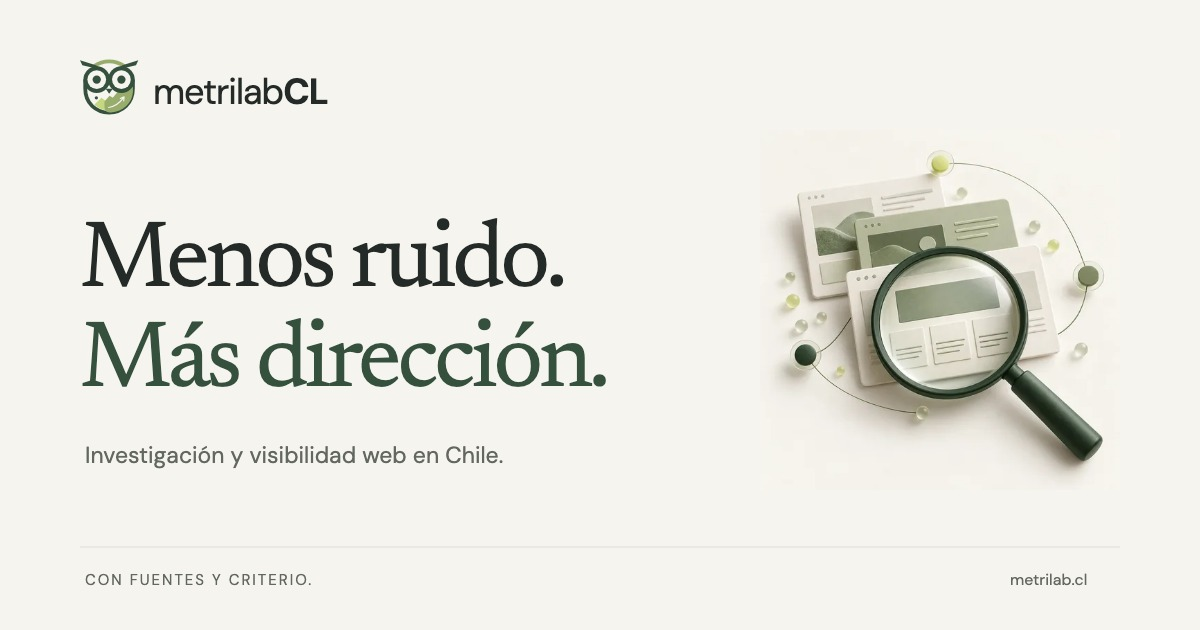
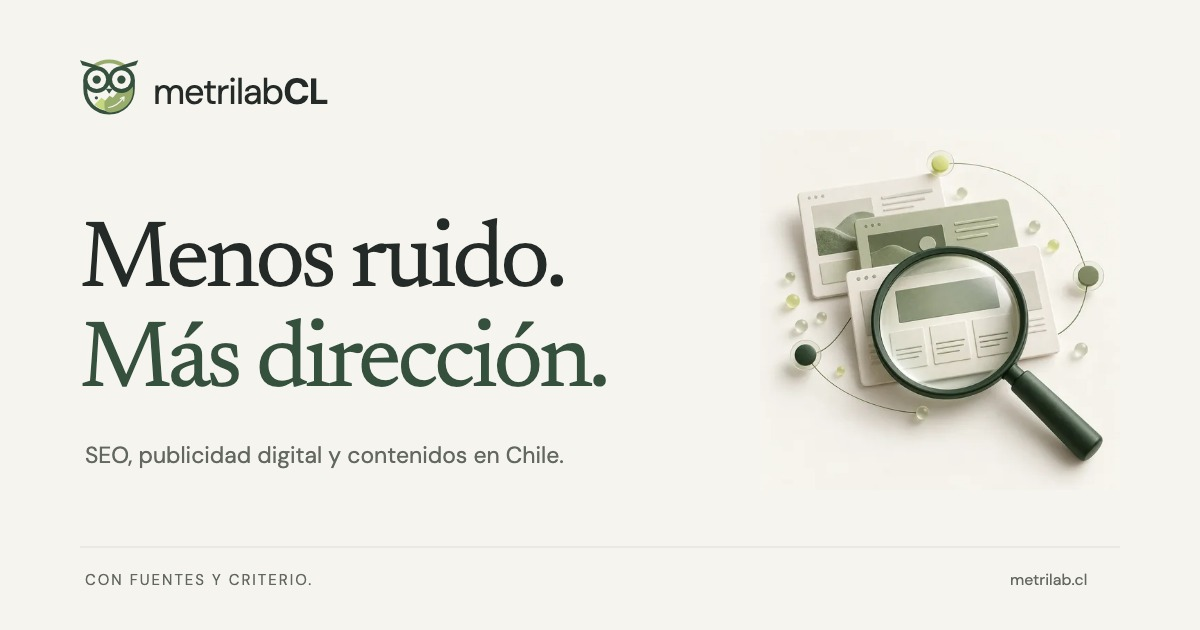
Ampliar oferta con Google Ads, Meta Ads y contenidos optimizados

Changed region(s): [[0.0617, 0.6937, 0.4625, 0.754]]

diff --git a/src/data/pages.ts b/src/data/pages.ts
@@ -1,18 +1,19 @@
 import { privacyPage } from './privacy';
 import { site } from './site';
+import { marketingPages } from './marketing';
 
 export interface Section { id: string; title: string; html: string; }
 export interface Page { slug: string; title: string; seoTitle: string; description: string; label: string; breadcrumb: string; lead: string; type?: string; service?: boolean; contact?: boolean; sections: Section[]; }
 
 export const pages: Page[] = [
   {
-    slug: 'servicios', title: 'Dos caminos. Una decisión con fundamento.', seoTitle: 'Servicios de diagnóstico y ejecución SEO | MetrilabCL', label: 'SERVICIOS / DIAGNÓSTICO Y EJECUCIÓN', breadcrumb: 'Servicios',
-    description: 'Compara diagnóstico y ejecución SEO: alcance, entregables, accesos y quién aplica cada cambio. Propuestas a medida para tu sitio.',
-    lead: 'Puedes necesitar claridad, un equipo que implemente o ambas cosas. Definimos contigo un alcance que responda a tu situación.',
+    slug: 'servicios', title: 'Dos caminos. Una decisión con fundamento.', seoTitle: 'Servicios de marketing digital: SEO, Ads y contenidos | MetrilabCL', label: 'SERVICIOS / SEO, ADS Y CONTENIDOS', breadcrumb: 'Servicios',
+    description: 'SEO, Google Ads, Meta Ads, creación de anuncios, palabras clave y textos optimizados. Compara diagnóstico, ejecución y gestión de campañas.',
+    lead: 'Puedes necesitar un diagnóstico, contenidos, campañas o un equipo que coordine todo. Definimos contigo el alcance para tu web y tu publicidad digital.',
     sections: [
-      { id: 'comparar', title: 'Diagnóstico o ejecución: ¿qué cambia?', html: `<p>El diagnóstico investiga el estado de tu sitio y convierte la evidencia en recomendaciones priorizadas. La ejecución aplica los cambios acordados y los verifica. Puedes contratar un diagnóstico para tu equipo, o pedir que MetrilabCL implemente el plan con los accesos necesarios.</p><div class="comparison-wrap" role="region" aria-label="Comparación de servicios" tabindex="0"><table class="comparison"><thead><tr><th scope="col">Lo que necesitas saber</th><th scope="col">Diagnóstico</th><th scope="col">Ejecución</th></tr></thead><tbody><tr><td>Objetivo</td><td>Entender qué mejorar y por qué.</td><td>Aplicar y verificar las mejoras.</td></tr><tr><td>Qué recibes</td><td>Hallazgos, fuentes y un plan priorizado.</td><td>Cambios implementados y su registro de verificación.</td></tr><tr><td>Quién aplica</td><td>Tu equipo o el proveedor que elijas.</td><td>MetrilabCL, en el alcance acordado.</td></tr><tr><td>Accesos</td><td>Se puede partir de información pública. Las cuentas amplían la evidencia.</td><td>CMS, código, hosting o herramientas, según la tarea.</td></tr><tr><td>Límites</td><td>No estima tráfico ni conversiones sin acceso.</td><td>No garantiza posiciones, ventas ni inclusión en IA.</td></tr></tbody></table></div><p><a href="/diagnostico/">Conocer el diagnóstico</a> · <a href="/seo/">Conocer la ejecución</a></p>` },
-      { id: 'alcance', title: 'Un alcance construido alrededor de tu sitio.', html: `<div class="detail-grid"><div class="detail-card"><h3>Investigación</h3><p>Demanda, intención de búsqueda y oferta competidora. El contexto que ayuda a decidir qué merece una página.</p></div><div class="detail-card"><h3>SEO y contenido</h3><p>Rastreo, indexación, arquitectura, enlazado y respuestas útiles para las personas.</p></div><div class="detail-card"><h3>Entidad e IA</h3><p>Identidad consistente, información atribuible y datos estructurados que describan lo que existe.</p></div><div class="detail-card"><h3>Experiencia web</h3><p>Rendimiento, accesibilidad y barreras que dificultan entender o utilizar tu sitio.</p></div></div>` },
-      { id: 'propuesta', title: '¿Cuánto cobra una agencia SEO?', html: `<p>En MetrilabCL cotizamos por propuesta. El costo depende del tamaño y estado del sitio, de la profundidad de la investigación, de los accesos disponibles y de quién implementará los cambios. Primero acordamos el problema y los entregables; después definimos el presupuesto. No publicamos rangos sin conocer ese alcance.</p><p>Para empezar, envíanos la dirección de tu sitio, tu objetivo y si cuentas con un equipo que pueda aplicar cambios. Si todavía no sabes qué camino necesitas, también podemos partir desde ahí.</p>` },
+      { id: 'comparar', title: 'Diagnóstico o ejecución: ¿qué cambia?', html: `<p>El diagnóstico investiga tu sitio y, con los accesos acordados, tus campañas, y convierte la evidencia en recomendaciones priorizadas. La ejecución implementa SEO, contenidos o publicidad digital, según la propuesta. Puedes contratar un diagnóstico para tu equipo, o pedir que MetrilabCL implemente el plan con los accesos necesarios.</p><div class="comparison-wrap" role="region" aria-label="Comparación de servicios" tabindex="0"><table class="comparison"><thead><tr><th scope="col">Lo que necesitas saber</th><th scope="col">Diagnóstico</th><th scope="col">Ejecución</th></tr></thead><tbody><tr><td>Objetivo</td><td>Entender qué mejorar y por qué.</td><td>Aplicar y verificar las mejoras.</td></tr><tr><td>Qué recibes</td><td>Hallazgos, fuentes y un plan priorizado.</td><td>Cambios implementados y su registro de verificación.</td></tr><tr><td>Quién aplica</td><td>Tu equipo o el proveedor que elijas.</td><td>MetrilabCL, en el alcance acordado.</td></tr><tr><td>Accesos</td><td>Se puede partir de información pública. Las cuentas amplían la evidencia.</td><td>CMS, código, hosting o cuentas publicitarias, según la tarea.</td></tr><tr><td>Límites</td><td>No estima tráfico ni conversiones sin acceso.</td><td>No garantiza posiciones, ventas ni inclusión en IA.</td></tr></tbody></table></div><p><a href="/diagnostico/">Conocer el diagnóstico</a> · <a href="/seo/">Ejecución SEO</a> · <a href="/publicidad-digital/">Gestión de campañas</a></p>` },
+      { id: 'alcance', title: 'Un alcance construido alrededor de tu negocio.', html: `<div class="detail-grid"><div class="detail-card"><h3>Investigación</h3><p>Demanda, intención de búsqueda y oferta competidora. Palabras clave y contexto para definir páginas, contenidos y campañas.</p></div><div class="detail-card"><h3>SEO técnico</h3><p>Rastreo, indexación, arquitectura y enlazado para una web bien resuelta. <a href="/seo/">Conocer ejecución SEO</a>.</p></div><div class="detail-card"><h3>Google Ads y Meta Ads</h3><p>Estrategia, configuración, gestión y optimización de campañas, con seguimiento de los resultados registrados. <a href="/publicidad-digital/">Conocer publicidad digital</a>.</p></div><div class="detail-card"><h3>Anuncios y textos</h3><p>Creación de anuncios, piezas visuales, títulos, descripciones y textos optimizados para páginas, landings y campañas. <a href="/contenidos/">Conocer contenidos y copywriting</a>.</p></div><div class="detail-card"><h3>Entidad e IA</h3><p>Identidad consistente, información atribuible y datos estructurados que describan lo que existe.</p></div><div class="detail-card"><h3>Experiencia web</h3><p>Rendimiento, accesibilidad y barreras que dificultan entender o utilizar tu sitio.</p></div></div>` },
+      { id: 'propuesta', title: 'Una propuesta que distingue trabajo e inversión.', html: `<p>En MetrilabCL cotizamos por propuesta. El costo depende del sitio, las plataformas, la investigación, el volumen de textos y anuncios, los accesos y el seguimiento acordado. La inversión publicitaria en Google o Meta se define aparte de los honorarios de gestión. Primero acordamos el problema y los entregables; después definimos el presupuesto. No publicamos rangos sin conocer ese alcance.</p><p>Para empezar, envíanos la dirección de tu sitio, tu objetivo y si cuentas con un equipo que pueda aplicar cambios. Si todavía no sabes qué camino necesitas, también podemos partir desde ahí.</p>` },
     ],
   },
   {
@@ -22,6 +23,7 @@ export const pages: Page[] = [
     sections: [
       { id: 'que-es', title: '¿Qué es una auditoría web?', html: `<p>Una auditoría web revisa cómo funciona un sitio, qué información ofrece y qué barreras dificultan encontrarlo o utilizarlo. Nuestro diagnóstico combina revisión técnica y criterio humano: contrasta herramientas, contenido y contexto de búsqueda para entregar recomendaciones que indiquen qué cambiar, quién puede hacerlo y cómo verificarlo.</p>` },
       { id: 'alcance', title: 'Qué revisamos.', html: `<div class="detail-grid"><div class="detail-card"><h3>SEO técnico</h3><p>Rastreo, indexación, canonicals, estado HTTP, sitemap y estructura de enlaces.</p></div><div class="detail-card"><h3>Contenido y demanda</h3><p>Intención de búsqueda, cobertura, utilidad, duplicaciones y páginas que compiten entre sí.</p></div><div class="detail-card"><h3>Identidad y respuestas</h3><p>Entidad, datos estructurados, atribución y claridad de la información para buscadores y sistemas de IA.</p></div><div class="detail-card"><h3>Experiencia</h3><p>Rendimiento, accesibilidad, navegación y fricción para comprender tu oferta o contactarte.</p></div></div>` },
+      { id: 'campanas', title: 'Si ya tienes campañas, también podemos revisarlas.', html: `<p>Con el acceso acordado a Google Ads o Meta Ads, revisamos la estructura, los términos o audiencias, los anuncios, las páginas de destino y la medición disponible. Identificamos qué conviene corregir, qué mensajes probar y qué datos faltan para decidir.</p><p>Esta revisión se incluye cuando forma parte de la propuesta. Puedes llevar el plan a tu equipo o contratar la <a href="/publicidad-digital/">gestión de campañas</a> con MetrilabCL.</p>` },
       { id: 'entregable', title: 'Lo que recibes no termina en una lista de errores.', html: `<ul><li><strong>Resumen para decidir:</strong> el problema, la evidencia y lo que merece atención primero.</li><li><strong>Hallazgos trazables:</strong> fuente, fecha, condiciones y límites de cada observación.</li><li><strong>Plan priorizado:</strong> acciones ordenadas por impacto esperado, esfuerzo y dependencias, sin convertir estimaciones en resultados.</li><li><strong>Responsables y verificación:</strong> quién puede aplicar cada cambio y cómo comprobarlo.</li></ul><div class="sample-report"><p class="eyebrow">EJEMPLO ILUSTRATIVO · NO ES UNA AUDITORÍA REAL</p><h3>Una página importante no aparece en el sitemap.</h3><dl><dt>EVIDENCIA</dt><dd>En un escenario ficticio, la URL existe y responde, pero no está incluida en el sitemap consultado.</dd><dt>RECOMENDACIÓN</dt><dd>Verificar que la página sea canónica e indexable antes de agregarla al sitemap.</dd><dt>QUIÉN LO APLICA</dt><dd>El equipo que administra la generación del sitio.</dd><dt>CÓMO SE VERIFICA</dt><dd>Reconstruir el sitio, leer el sitemap y comprobar la URL. La inclusión no garantiza indexación.</dd><dt>LÍMITE</dt><dd>Sin Search Console no conocemos el estado de indexación observado por Google.</dd></dl></div><a class="download-link" href="/muestra-diagnostico.md" download>Descargar estructura de muestra <span aria-hidden="true">↓</span></a><p class="source-link">La muestra explica el formato. No presenta datos de clientes ni resultados medidos.</p>` },
       { id: 'limites', title: 'Qué no es este diagnóstico.', html: `<p>No es la exportación de una herramienta automática ni una promesa de posiciones. Tampoco asignamos cifras de tráfico, ventas o conversiones a un sitio sin acceso a sus cuentas. Cuando un dato requiere acceso, lo identificamos como <strong>«no disponible sin acceso»</strong>.</p><p>La revisión pública permite avanzar. Las cuentas de analítica y Search Console, si decides compartirlas, permiten ampliar y contrastar la investigación.</p>` },
       { id: 'costo', title: '¿Cuánto cuesta una auditoría SEO?', html: `<p>El costo depende de cuántas páginas y plantillas tiene el sitio, de su complejidad técnica, de los mercados que hay que investigar y de la evidencia disponible. La propuesta define las áreas que revisaremos, los entregables y las exclusiones. Así puedes comparar alcance y criterio antes de contratar.</p>` },
@@ -32,7 +34,7 @@ export const pages: Page[] = [
     description: 'Implementamos mejoras técnicas, contenidos, datos estructurados y enlaces internos. SEO en Chile con accesos acordados y verificación de cada cambio.',
     lead: 'Aplicamos las mejoras que tu sitio necesita y dejamos un registro de lo que cambió. El trabajo se puede revisar; las promesas de posiciones, no.',
     sections: [
-      { id: 'tareas', title: '¿Qué hace una agencia SEO?', html: `<p>Una agencia SEO investiga cómo busca tu público y mejora las condiciones técnicas y el contenido de tu sitio para que los buscadores puedan encontrarlo, comprenderlo y relacionarlo con esas búsquedas. En ejecución, aplica cambios acordados, documenta su alcance y los verifica. No controla las posiciones que decide un buscador.</p><div class="detail-grid"><div class="detail-card"><h3>Corregir la base técnica</h3><p>Problemas de rastreo, indexación, redirecciones, canonicals y plantillas.</p></div><div class="detail-card"><h3>Ordenar el contenido</h3><p>Arquitectura, encabezados, respuestas útiles y páginas con una función clara.</p></div><div class="detail-card"><h3>Describir la entidad</h3><p>Datos consistentes y marcado que refleje información visible y real.</p></div><div class="detail-card"><h3>Conectar las páginas</h3><p>Enlazado interno que ayude a recorrer la oferta y comprender sus relaciones.</p></div></div>` },
+      { id: 'tareas', title: '¿Qué hace una agencia SEO?', html: `<p>Una agencia SEO investiga cómo busca tu público y mejora las condiciones técnicas y el contenido de tu sitio para que los buscadores puedan encontrarlo, comprenderlo y relacionarlo con esas búsquedas. En ejecución, aplica cambios acordados, documenta su alcance y los verifica. No controla las posiciones que decide un buscador.</p><div class="detail-grid"><div class="detail-card"><h3>Corregir la base técnica</h3><p>Problemas de rastreo, indexación, redirecciones, canonicals y plantillas.</p></div><div class="detail-card"><h3>Optimizar los textos</h3><p>Investigación de palabras clave, títulos SEO, meta descripciones, encabezados y textos para páginas de servicio y landings. <a href="/contenidos/">Conoce los entregables de contenidos</a>.</p></div><div class="detail-card"><h3>Describir la entidad</h3><p>Datos consistentes y marcado que refleje información visible y real.</p></div><div class="detail-card"><h3>Conectar las páginas</h3><p>Enlazado interno que ayude a recorrer la oferta y comprender sus relaciones.</p></div></div>` },
       { id: 'accesos', title: 'Qué necesitamos para trabajar.', html: `<p>Los accesos dependen del cambio: CMS para contenido, repositorio para código, hosting para configuración o Search Console para contrastar indexación. Pedimos lo que exige el alcance acordado y definimos contigo qué puede publicar cada responsable.</p><p>Si tu equipo prefiere implementar, el <a href="/diagnostico/">diagnóstico</a> deja las instrucciones y los criterios de verificación.</p>` },
       { id: 'verificar', title: 'Antes, cambio, después.', html: `<ol><li><strong>Registrar el estado inicial.</strong> Guardar la evidencia que justifica el cambio.</li><li><strong>Aplicar el alcance acordado.</strong> Documentar las páginas o configuraciones afectadas.</li><li><strong>Repetir la comprobación.</strong> Usar las mismas herramientas y condiciones cuando sea posible.</li><li><strong>Explicar la diferencia.</strong> Separar una corrección técnica de un eventual efecto en tráfico o negocio.</li></ol><div class="note"><p>Una página que pasa a ser indexable es una mejora verificable. Que aumenten sus visitas exige otra medición y suficiente tiempo de observación. No son la misma afirmación.</p></div>` },
       { id: 'limites', title: 'Lo que ninguna agencia puede controlar.', html: `<p>No comprometemos una posición, un plazo de crecimiento ni una cita en sistemas de IA. Las decisiones de Google y de otros sistemas dependen de factores que no administramos. Nuestra responsabilidad es el trabajo acordado, su calidad y la claridad de la evidencia.</p><p>La propuesta distingue implementación y seguimiento. Si necesitas ambos, definimos qué mediremos y con qué accesos.</p>` },
@@ -54,9 +56,9 @@ export const pages: Page[] = [
     description: 'Investigamos palabras clave, intención de búsqueda y competencia con fuentes, país, idioma, fechas y límites. Decisiones de contenido con contexto.',
     lead: 'Qué busca tu público, qué encuentra hoy y dónde tu sitio puede responder mejor. Una investigación para decidir, no para llenar una planilla de palabras clave.',
     sections: [
-      { id: 'demanda', title: '¿Cómo se investigan las palabras clave?', html: `<p>Partimos del negocio y de las preguntas de su comprador. Organizamos términos por intención, contrastamos estimaciones de demanda con resultados de búsqueda y declaramos país, idioma y fecha. Después definimos qué página debe responder cada necesidad. Un volumen estimado orienta la investigación; no es una previsión de visitas o ventas.</p>` },
+      { id: 'demanda', title: '¿Cómo se investigan las palabras clave?', html: `<p>Partimos del negocio y de las preguntas de su comprador. Organizamos términos por intención, contrastamos estimaciones de demanda con resultados de búsqueda y declaramos país, idioma y fecha. Después definimos qué página, contenido o anuncio debe responder cada necesidad. Para campañas de Google Ads, organizamos también los términos y las exclusiones según su relación con la oferta. Un volumen estimado orienta la investigación; no es una previsión de visitas o ventas.</p>` },
       { id: 'competencia', title: '¿Cómo se analiza a la competencia?', html: `<p>Definimos una muestra de sitios y las preguntas que queremos responder. Revisamos oferta, estructura, mensaje, entregables y evidencias visibles, con criterios comunes. La comparación describe las páginas observadas en una fecha concreta. No permite afirmar quién vende más, cuánto tráfico tiene o qué hace todo el mercado.</p><div class="note"><p><strong>Una oportunidad es una hipótesis.</strong> Si una oferta no aparece en la muestra revisada, investigamos su potencial. No afirmamos que nadie la ofrece.</p></div>` },
-      { id: 'entrega', title: 'Del contexto a un mapa útil.', html: `<ul><li>Grupos de preguntas y términos con su intención.</li><li>Fuentes y estimaciones de demanda, con sus límites.</li><li>Lectura de resultados y competencia con criterios declarados.</li><li>Mapa de páginas: una función principal para cada URL.</li><li>Prioridades de contenido y preguntas que aún necesitan evidencia.</li></ul><p>El alcance puede formar parte de un <a href="/diagnostico/">diagnóstico</a> o alimentar una <a href="/seo/">etapa de ejecución</a>.</p>` },
+      { id: 'entrega', title: 'Del contexto a un mapa útil.', html: `<ul><li>Grupos de palabras clave y preguntas con su intención de búsqueda.</li><li>Fuentes y estimaciones de demanda, con sus límites.</li><li>Lectura de resultados y competencia con criterios declarados.</li><li>Mapa de páginas y temas: una función principal para cada URL y prioridades para títulos, descripciones y textos.</li><li>Prioridades de contenido y preguntas que aún necesitan evidencia.</li></ul><p>La investigación puede alimentar un <a href="/diagnostico/">diagnóstico</a>, la <a href="/seo/">ejecución SEO</a>, la <a href="/contenidos/">redacción de contenidos</a> o las <a href="/publicidad-digital/">campañas de Google Ads</a>.</p>` },
       { id: 'limites', title: '«Sin dato» no significa «sin demanda».', html: `<p>Las herramientas tienen cobertura y metodologías diferentes. Un término sin dato puede necesitar otra fuente o una investigación cualitativa. Tampoco sumamos sin criterio términos que representan búsquedas solapadas. Las conclusiones conservan el alcance de las mediciones que las sostienen.</p><p>No estimamos el tráfico ni las conversiones de un competidor a partir de su apariencia. Si un dato no está disponible, lo decimos.</p>` },
     ],
   },
@@ -73,16 +75,17 @@ export const pages: Page[] = [
     ],
   },
   {
-    slug: 'nosotros', title: 'Un estudio para tomar mejores decisiones web.', seoTitle: 'MetrilabCL: investigación y visibilidad web en Chile', label: 'EL ESTUDIO / METRILABCL', breadcrumb: 'El estudio', type: 'AboutPage',
-    description: 'MetrilabCL es una agencia de investigación y visibilidad web para negocios en Chile. Conoce nuestro enfoque, especialidades y forma de trabajar.',
-    lead: 'MetrilabCL es una agencia de investigación y visibilidad web orientada a negocios en Chile. Investigamos, recomendamos y, si el proyecto lo requiere, implementamos.',
+    slug: 'nosotros', title: 'Una agencia para conectar estrategia y ejecución.', seoTitle: 'MetrilabCL: agencia de marketing digital en Chile', label: 'EL ESTUDIO / METRILABCL', breadcrumb: 'El estudio', type: 'AboutPage',
+    description: 'MetrilabCL combina SEO, publicidad en Google Ads y Meta Ads, investigación y contenidos para negocios en Chile. Conoce nuestro enfoque y forma de trabajar.',
+    lead: 'MetrilabCL es una agencia de marketing digital orientada a negocios en Chile. Conectamos investigación, SEO, Google Ads, Meta Ads y contenidos: desde la estrategia hasta la ejecución y el seguimiento.',
     sections: [
       { id: 'enfoque', title: 'Menos decisiones por intuición.', html: `<p>Un sitio puede verse bien y seguir respondiendo mal a las preguntas de sus compradores. Nuestro trabajo conecta contexto, contenido y funcionamiento técnico para que puedas entender qué merece atención y qué evidencia sostiene esa decisión.</p><p>Nos dirigimos a negocios que necesitan una lectura clara de su sitio, ya sea para que su equipo avance o para contar con apoyo de implementación. El alcance se construye alrededor del problema, no de un paquete fijo.</p>` },
-      { id: 'especialidades', title: 'Lo que reúne nuestro trabajo.', html: `<div class="detail-grid"><div class="detail-card"><h3>Investigación</h3><p>Demanda, intención de búsqueda y comparación de la oferta visible.</p></div><div class="detail-card"><h3>Visibilidad web</h3><p>SEO técnico, contenido, entidad y datos estructurados.</p></div><div class="detail-card"><h3>Respuestas de IA</h3><p>Claridad, atribución y expectativas honestas sobre AEO y GEO.</p></div><div class="detail-card"><h3>Experiencia</h3><p>Rendimiento, accesibilidad y recorridos de navegación.</p></div></div>` },
+      { id: 'especialidades', title: 'Lo que reúne nuestro trabajo.', html: `<div class="detail-grid"><div class="detail-card"><h3>Investigación</h3><p>Demanda, intención de búsqueda y comparación de la oferta visible.</p></div><div class="detail-card"><h3>SEO y contenidos</h3><p>SEO técnico, palabras clave, textos optimizados, títulos y meta descripciones.</p></div><div class="detail-card"><h3>Publicidad digital</h3><p>Gestión de campañas y creación de anuncios para Google Ads y Meta Ads.</p></div><div class="detail-card"><h3>Respuestas de IA</h3><p>Claridad, atribución y expectativas honestas sobre AEO y GEO.</p></div><div class="detail-card"><h3>Experiencia</h3><p>Rendimiento, accesibilidad y recorridos de navegación.</p></div></div>` },
       { id: 'responsable', title: 'Conoce al responsable del estudio.', html: `<p>MetrilabCL está a cargo de <strong>${site.owner.name}</strong>, con ubicación comercial en ${site.owner.location}. Puedes conocer su trabajo en <a href="${site.owner.website}">bvyon-marketing.cl</a> y su trayectoria en <a href="${site.owner.linkedin}" rel="me">LinkedIn</a>.</p>` },
       { id: 'criterio', title: 'Nuestra firma es el método.', html: `<p>Los contenidos se firman como <strong>Equipo MetrilabCL</strong>. Mostramos el proceso, explicamos los límites y documentamos lo que podemos comprobar. No presentamos testimonios, certificaciones ni cifras de mejora que no tengan respaldo verificable.</p><p><a href="/metodo/">Conoce el método completo</a> y <a href="/recursos/">consulta las guías del estudio</a>.</p>` },
       { id: 'contacto', title: 'Trabajemos desde una pregunta concreta.', html: `<p>¿Tu sitio necesita una revisión? ¿Tienes un plan pero falta implementarlo? Envíanos la dirección de tu web y el objetivo que quieres resolver. Te responderemos para entender el alcance antes de preparar una propuesta.</p><p><a href="/contacto/">Ir a contacto</a></p>` },
     ],
   },
+  ...marketingPages,
   privacyPage,
 ];

diff --git a/src/data/marketing.ts b/src/data/marketing.ts
@@ -1,0 +1,32 @@
+import type { Page } from './pages';
+
+export const marketingPages: Page[] = [
+  {
+    slug: 'publicidad-digital', title: 'Campañas con intención. Anuncios con una idea clara.',
+    seoTitle: 'Gestión de Google Ads y Meta Ads en Chile | MetrilabCL',
+    label: 'PUBLICIDAD DIGITAL / GOOGLE ADS Y META ADS', breadcrumb: 'Google Ads y Meta Ads', service: true,
+    description: 'Gestión de campañas en Google Ads y Meta Ads: estrategia, palabras clave, creación de anuncios, textos, títulos, descripciones y optimización con seguimiento.',
+    lead: 'Investigamos a quién quieres llegar, construimos el mensaje y gestionamos tus campañas. Google Ads y Meta Ads conectados con tu oferta, tu presupuesto y una página preparada para recibir las visitas.',
+    sections: [
+      { id: 'plataformas', title: 'Dos plataformas. Un objetivo de negocio.', html: `<div class="detail-grid"><div class="detail-card"><h3>Google Ads</h3><p>Campañas de búsqueda para conectar tu oferta con lo que las personas buscan. Investigación de palabras clave, organización de grupos de anuncios, títulos, descripciones y recursos adaptados a cada campaña.</p></div><div class="detail-card"><h3>Meta Ads</h3><p>Campañas en Facebook e Instagram para presentar tu propuesta a las audiencias acordadas. Conceptos creativos, textos principales, títulos, llamadas a la acción y piezas adaptadas a los formatos elegidos.</p></div></div><p>Elegimos los canales según tu objetivo y el contexto de tu negocio. Puedes trabajar con una plataforma o coordinar ambas dentro de una misma estrategia.</p>` },
+      { id: 'gestion', title: 'Del planteamiento a la gestión de campañas.', html: `<ol><li><strong>Objetivo y presupuesto.</strong> Definimos qué quieres conseguir, dónde operar y cuánto invertir.</li><li><strong>Investigación.</strong> Estudiamos la demanda, las palabras clave y los mensajes de la competencia; para Meta definimos audiencias y enfoques creativos.</li><li><strong>Configuración.</strong> Organizamos campañas, anuncios y páginas de destino con los accesos acordados.</li><li><strong>Lanzamiento.</strong> Revisas los mensajes y las piezas antes de activar la inversión.</li><li><strong>Optimización.</strong> Revisamos los datos disponibles y ajustamos términos, segmentación, anuncios y distribución del presupuesto.</li></ol>` },
+      { id: 'anuncios', title: 'Creamos el anuncio, no solo la campaña.', html: `<ul><li><strong>Conceptos creativos:</strong> una idea central, un beneficio concreto y una llamada a la acción.</li><li><strong>Textos publicitarios:</strong> variantes de textos principales, títulos y descripciones para Google Ads y Meta Ads.</li><li><strong>Piezas visuales:</strong> diseño y adaptación de imágenes para los formatos incluidos en la propuesta.</li><li><strong>Coherencia con la landing:</strong> el mensaje del anuncio y el de la página deben responder a la misma expectativa.</li><li><strong>Pruebas de mensajes:</strong> alternativas para contrastar enfoques y mejorar con evidencia.</li></ul><p>La propuesta especifica cuántas piezas, variantes y rondas de revisión incluye, y los materiales que necesitamos de tu marca. Los formatos audiovisuales se definen según el proyecto.</p>` },
+      { id: 'seguimiento', title: 'Seguimiento que ayuda a decidir.', html: `<p>Definimos qué significa un resultado para tu negocio: una consulta, una compra u otra acción relevante. Revisamos la medición disponible antes de interpretar los datos y acordamos el seguimiento de conversiones cuando forme parte del alcance.</p><p>El reporte reúne inversión, resultados registrados, costo por resultado cuando corresponda, cambios aplicados y próximos pasos. Si falta medición, la identificamos para que puedas decidir qué configurar antes de ampliar la inversión.</p>` },
+      { id: 'propuesta', title: 'Qué acordamos antes de empezar.', html: `<p>Plataformas, mercados, objetivo, presupuesto publicitario, honorarios de gestión, creación de piezas y frecuencia de seguimiento. La inversión que reciben Google o Meta se distingue de los honorarios de MetrilabCL.</p><p>Trabajamos con los permisos necesarios en tus cuentas. Si ya tienes campañas, podemos revisar su estado y proponer un plan; si empiezas desde cero, definimos la estructura y los materiales para lanzarlas.</p><p><a href="/contacto/">Cuéntanos tu objetivo y las campañas que necesitas</a> · <a href="/contenidos/">Conoce el servicio de contenidos y textos</a></p>` },
+      { id: 'referencias', title: 'El mensaje se adapta a cada canal.', html: `<p>En los anuncios de búsqueda trabajamos la relación entre palabras clave, títulos y descripciones. En Meta, adaptamos las piezas y el mensaje a los espacios elegidos en Facebook e Instagram.</p><p class="source-link">Documentación de referencia: <a href="https://support.google.com/google-ads/answer/7337243?hl=es" rel="external">Planificador de palabras clave de Google Ads</a>, <a href="https://support.google.com/google-ads/answer/9921843?hl=es" rel="external">Títulos y descripciones de anuncios de búsqueda</a> y <a href="https://www.facebookblueprint.com/student/activity/415305-get-started-with-ads-manager" rel="external">Administrador de anuncios de Meta</a>.</p>` },
+    ],
+  },
+  {
+    slug: 'contenidos', title: 'Las palabras también hacen trabajar a tu web.',
+    seoTitle: 'Contenidos SEO, copywriting y textos para anuncios | MetrilabCL',
+    label: 'CONTENIDOS / SEO Y TEXTOS PUBLICITARIOS', breadcrumb: 'Contenidos y copywriting', service: true,
+    description: 'Investigación de palabras clave, redacción web y textos publicitarios. Optimizamos títulos SEO, meta descripciones, encabezados, landings y anuncios.',
+    lead: 'Convertimos la investigación en mensajes que se entienden: qué ofreces, por qué elegirte y cuál es el siguiente paso. Textos para tu sitio, tus contenidos y tus campañas.',
+    sections: [
+      { id: 'palabras-clave', title: 'Primero, investigar qué busca tu público.', html: `<p>Investigamos palabras clave e intención de búsqueda con el país, el idioma y el mercado de tu negocio. Agrupamos las consultas por necesidad y definimos qué página, contenido o anuncio puede responder mejor.</p><p>El resultado conecta términos y temas con una función concreta: explicar un servicio, resolver una duda o presentar una oferta. Puedes contratar la <a href="/investigacion/">investigación</a> como etapa inicial o integrarla con la redacción.</p>` },
+      { id: 'textos-web', title: 'Textos optimizados, sin perder tu voz.', html: `<div class="detail-grid"><div class="detail-card"><h3>Títulos y descripciones SEO</h3><p>Títulos de página y meta descripciones específicos, coherentes con el contenido y la intención de búsqueda.</p></div><div class="detail-card"><h3>Encabezados y estructura</h3><p>H1, H2 y secciones que ordenen la lectura y hagan fácil encontrar una respuesta.</p></div><div class="detail-card"><h3>Páginas de servicio y landings</h3><p>Propuesta de valor, beneficios, argumentos y llamadas a la acción para acompañar la decisión.</p></div><div class="detail-card"><h3>Artículos y guías</h3><p>Contenidos útiles que desarrollen un tema con fuentes, contexto y enlaces relevantes.</p></div></div>` },
+      { id: 'anuncios', title: 'Copywriting para Google Ads y Meta Ads.', html: `<p>Redactamos títulos, descripciones, textos principales y llamadas a la acción con un objetivo y una oferta definidos. Proponemos variantes de mensajes y adaptamos el tono al canal.</p><p>Conectamos el anuncio con la página de destino para que la persona encuentre lo que esperaba al hacer clic. La creación de textos puede contratarse por separado o junto a la <a href="/publicidad-digital/">gestión de campañas</a>.</p>` },
+      { id: 'entregables', title: 'Qué recibes y cómo se aplica.', html: `<ul><li>Mapa de temas y palabras clave para las páginas acordadas.</li><li>Textos editables con estructura, títulos y descripciones.</li><li>Variantes publicitarias o piezas de contenido incluidas en la propuesta.</li><li>Revisión del tono, exactitud de la oferta y llamadas a la acción contigo.</li><li>Publicación en tu sitio si se contrata implementación y contamos con los accesos.</li></ul><p>Acordamos páginas, extensión, formatos, revisiones y quién publica. Puedes recibir los textos para tu equipo o pedir su implementación como parte del trabajo.</p>` },
+    ],
+  },
+];

diff --git a/tests/browser/site.spec.ts b/tests/browser/site.spec.ts
@@ -1,7 +1,7 @@
 import { test, expect } from '@playwright/test';
 import axe from 'axe-core';
 
-const routes = ['/', '/servicios/', '/diagnostico/', '/seo/', '/visibilidad-en-ia/', '/investigacion/', '/metodo/', '/nosotros/', '/recursos/', '/contacto/', '/privacidad/', '/recursos/diagnostico-o-ejecucion/', '/recursos/como-leer-un-diagnostico/', '/recursos/visibilidad-ia-sin-promesas/'];
+const routes = ['/', '/servicios/', '/diagnostico/', '/seo/', '/visibilidad-en-ia/', '/investigacion/', '/publicidad-digital/', '/contenidos/', '/metodo/', '/nosotros/', '/recursos/', '/contacto/', '/privacidad/', '/recursos/diagnostico-o-ejecucion/', '/recursos/como-leer-un-diagnostico/', '/recursos/visibilidad-ia-sin-promesas/'];
 
 test('páginas compiladas: navegación, accesibilidad y adaptación móvil', async ({ page }) => {
   const errors: string[] = [];
@@ -68,6 +68,7 @@ test('contacto valida y prepara una consulta sin enviar datos', async ({ page, c
   expect(await page.locator('#contact-message').evaluate((element: HTMLTextAreaElement) => element.validity.valueMissing)).toBe(true);
   await page.locator('#contact-name').fill('Prueba de consulta');
   await page.locator('#contact-site').fill('https://ejemplo.cl');
+  await page.locator('#contact-service').selectOption('Google Ads');
   await page.locator('#contact-message').fill('Quiero investigar cómo mejorar mi sitio.');
   await page.getByRole('button', { name: 'Copiar mensaje' }).click();
   expect(await page.locator('#contact-consent').evaluate((element: HTMLInputElement) => element.validity.valueMissing)).toBe(true);
@@ -77,6 +78,7 @@ test('contacto valida y prepara una consulta sin enviar datos', async ({ page, c
   const copied = await page.evaluate(() => navigator.clipboard.readText());
   expect(copied).toContain('contacto@metrilab.cl');
   expect(copied).toContain('https://ejemplo.cl');
+  expect(copied).toContain('Necesito: Google Ads');
   expect(copied).toContain('Quiero investigar');
   expect(copied).toContain('Autorizo a Bastian Vega Yon');
   expect(copied).toContain('12 meses desde la última interacción');

diff --git a/src/styles/global.css b/src/styles/global.css
@@ -28,3 +28,10 @@
 @media(max-width:900px){.hero-art-top{padding:16px 15px 0;font-size:7px}.hero-art-caption{padding:15px;gap:7px;font-size:9px}}
 @media(max-width:650px){.hero-art-top{padding:18px 20px 0;font-size:8px}.hero-art-caption{padding:16px 20px;font-size:10px;gap:10px}.brand-symbol{width:30px;height:29px}.service-visual{margin-bottom:23px}.method-visual{margin-top:28px}}
 @media(max-width:380px){.header-cta{display:none}.hero-art-caption{font-size:9px;padding:14px 16px}}
+
+/* Keep the expanded offer readable across desktop and mobile. */
+.expertise-strip p{flex-wrap:wrap;gap:12px 22px;padding-block:12px}
+.focus-grid{grid-template-columns:repeat(4,minmax(0,1fr))}
+.focus-card h3{font-size:23px}.focus-card+.focus-card{padding-left:24px}.focus-card{padding-right:24px}
+@media(max-width:900px) and (min-width:651px){.focus-grid{grid-template-columns:repeat(2,minmax(0,1fr))}.focus-card:nth-child(3){border-left:0;padding-left:0}.focus-card:nth-child(n+3){border-top:1px solid var(--line)}}
+@media(max-width:650px){.expertise-strip p{gap:7px 10px;padding:0}.focus-grid{grid-template-columns:1fr}.focus-card,.focus-card+.focus-card{padding:28px 0}.focus-card h3{font-size:24px}}

diff --git a/src/data/site.ts b/src/data/site.ts
@@ -1,7 +1,7 @@
 export const site = {
   name: 'MetrilabCL',
   url: 'https://metrilab.cl',
-  description: 'Agencia de investigación y visibilidad web en Chile. Diagnóstico, SEO y ejecución con fuentes, prioridades y un método que puedes comprobar.',
+  description: 'Agencia de marketing digital en Chile. SEO, Google Ads, Meta Ads, investigación de palabras clave y contenidos con estrategia, ejecución y seguimiento.',
   email: 'contacto@metrilab.cl',
   owner: {
     name: 'Bastian Vega Yon',

diff --git a/docs/oferta-marketing-digital.md b/docs/oferta-marketing-digital.md
@@ -1,0 +1,14 @@
+# Oferta de marketing digital
+
+La oferta incorpora SEO, publicidad digital, investigación y contenidos. Diagnóstico y ejecución siguen siendo dos formas de contratar el trabajo, según los entregables y accesos acordados.
+
+- `/publicidad-digital/`: estrategia, gestión y optimización de Google Ads y Meta Ads; creación de anuncios, textos, títulos, descripciones y piezas visuales; seguimiento y separación de honorarios e inversión publicitaria.
+- `/contenidos/`: investigación de palabras clave, títulos SEO, meta descripciones, encabezados, textos para páginas y landings, artículos y copywriting para campañas.
+- Portada, servicios, investigación, SEO, presentación de la agencia y pie de página conectan estas áreas.
+- Contacto permite elegir Google Ads, Meta Ads, creación de anuncios, contenidos o investigación de palabras clave. El mensaje sigue preparándose localmente para que el visitante lo envíe desde su correo.
+
+Referencias consultadas para describir las plataformas: [Google Ads: palabras clave](https://support.google.com/google-ads/answer/7337243), [Google Ads: títulos y descripciones](https://support.google.com/google-ads/answer/9921843) y [Meta: Ads Manager](https://www.facebookblueprint.com/student/activity/415305-get-started-with-ads-manager).
+
+La oferta de gestión de campañas no añade seguimiento publicitario al sitio de MetrilabCL. La configuración de medición para clientes se acuerda en cada proyecto.
+
+Verificación local: 31 archivos sin errores; 17 páginas HTML y 572 referencias internas comprobadas. Cinco pruebas de navegador aprobadas, incluyendo 16 rutas a 1440, 390 y 320 px, accesibilidad, imágenes y preparación de una consulta de Google Ads.
